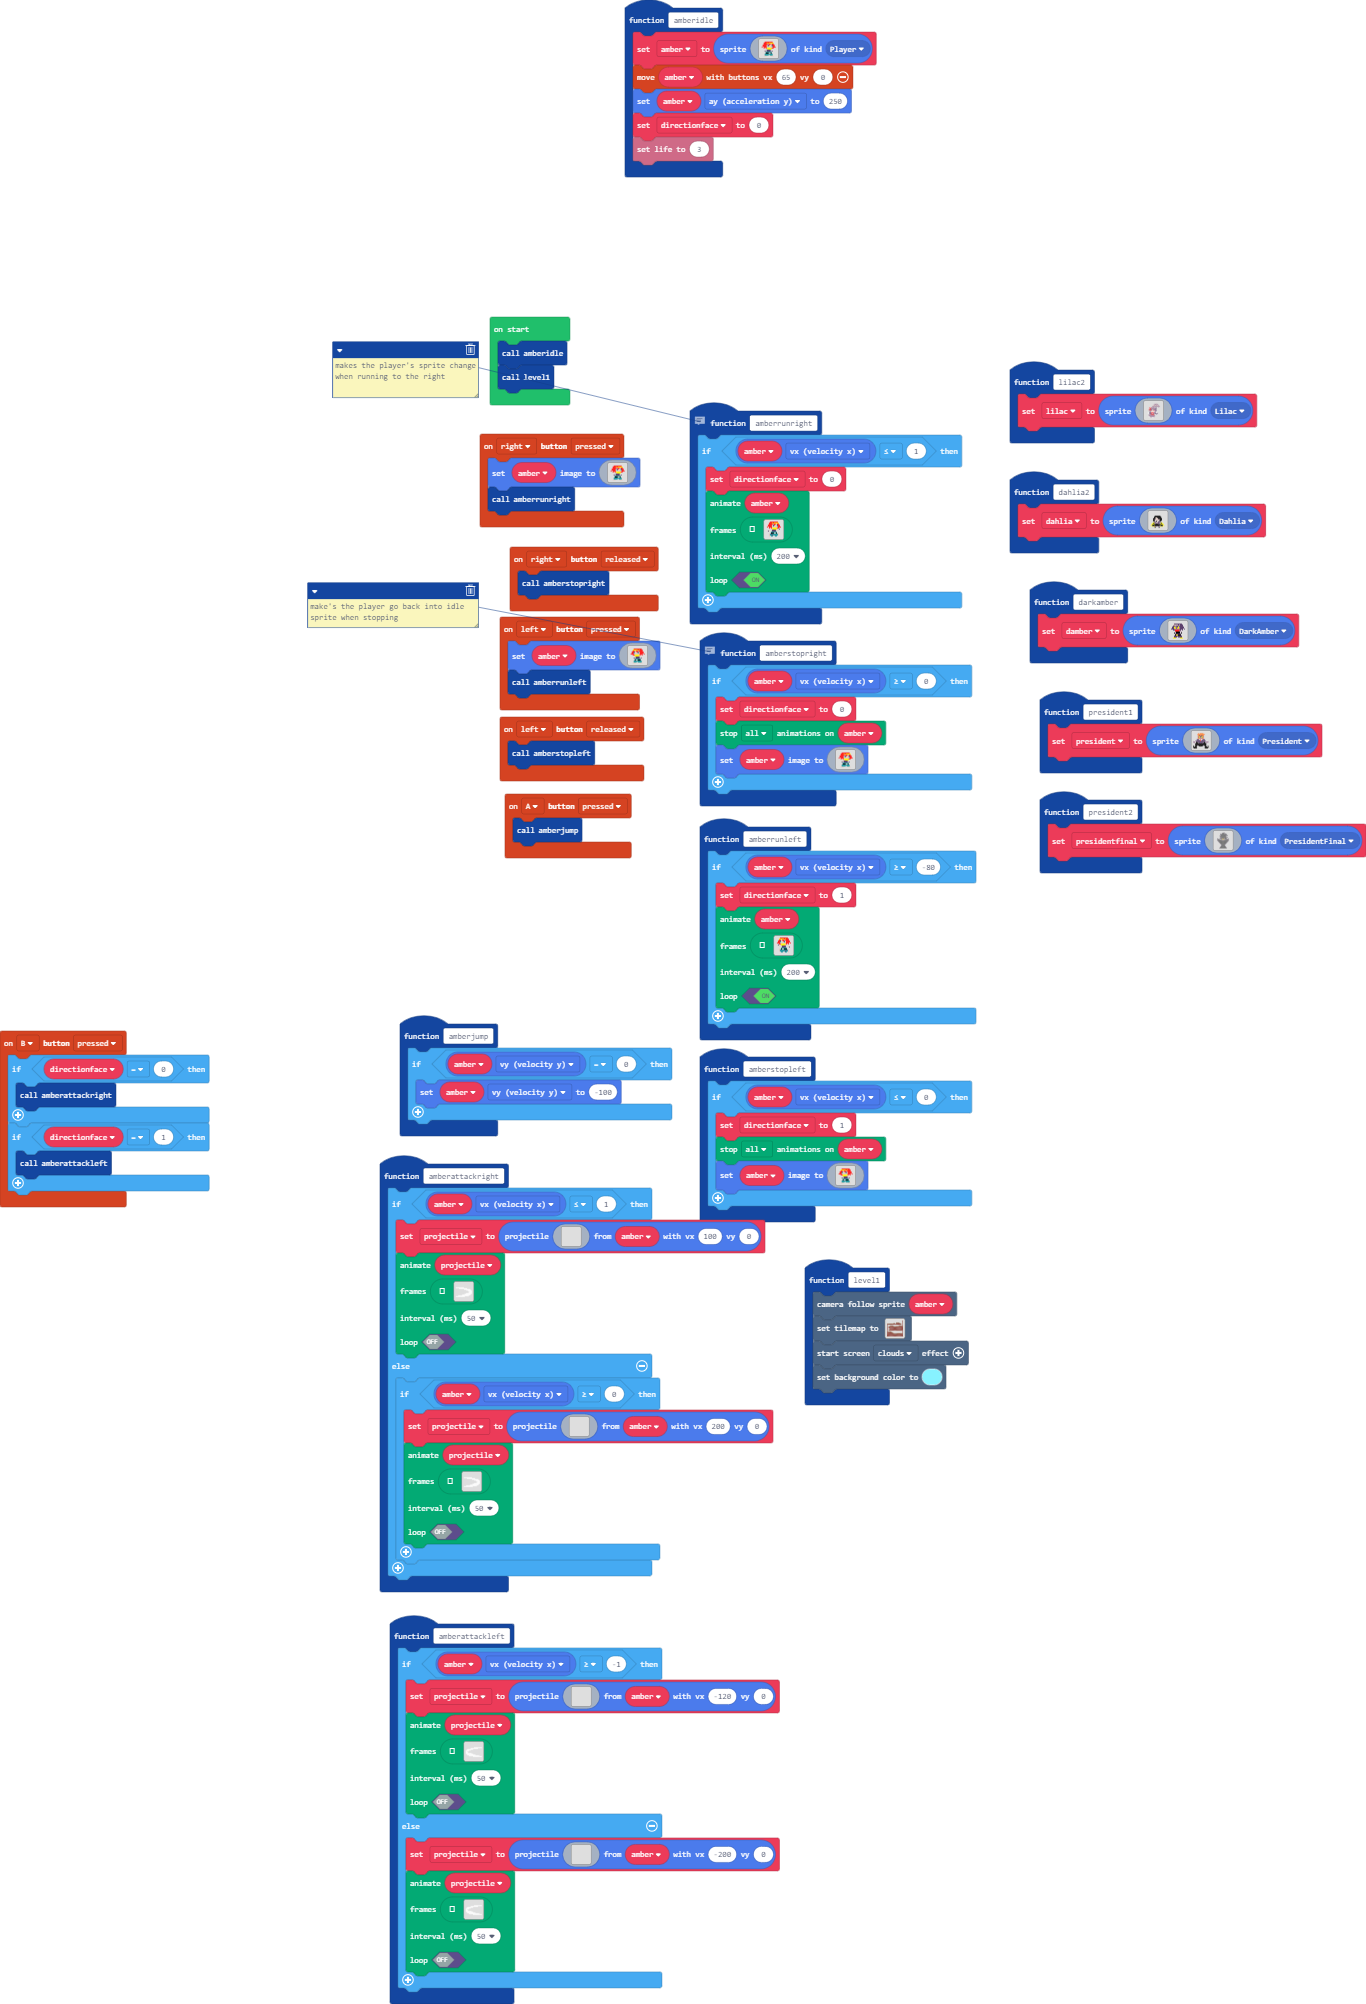
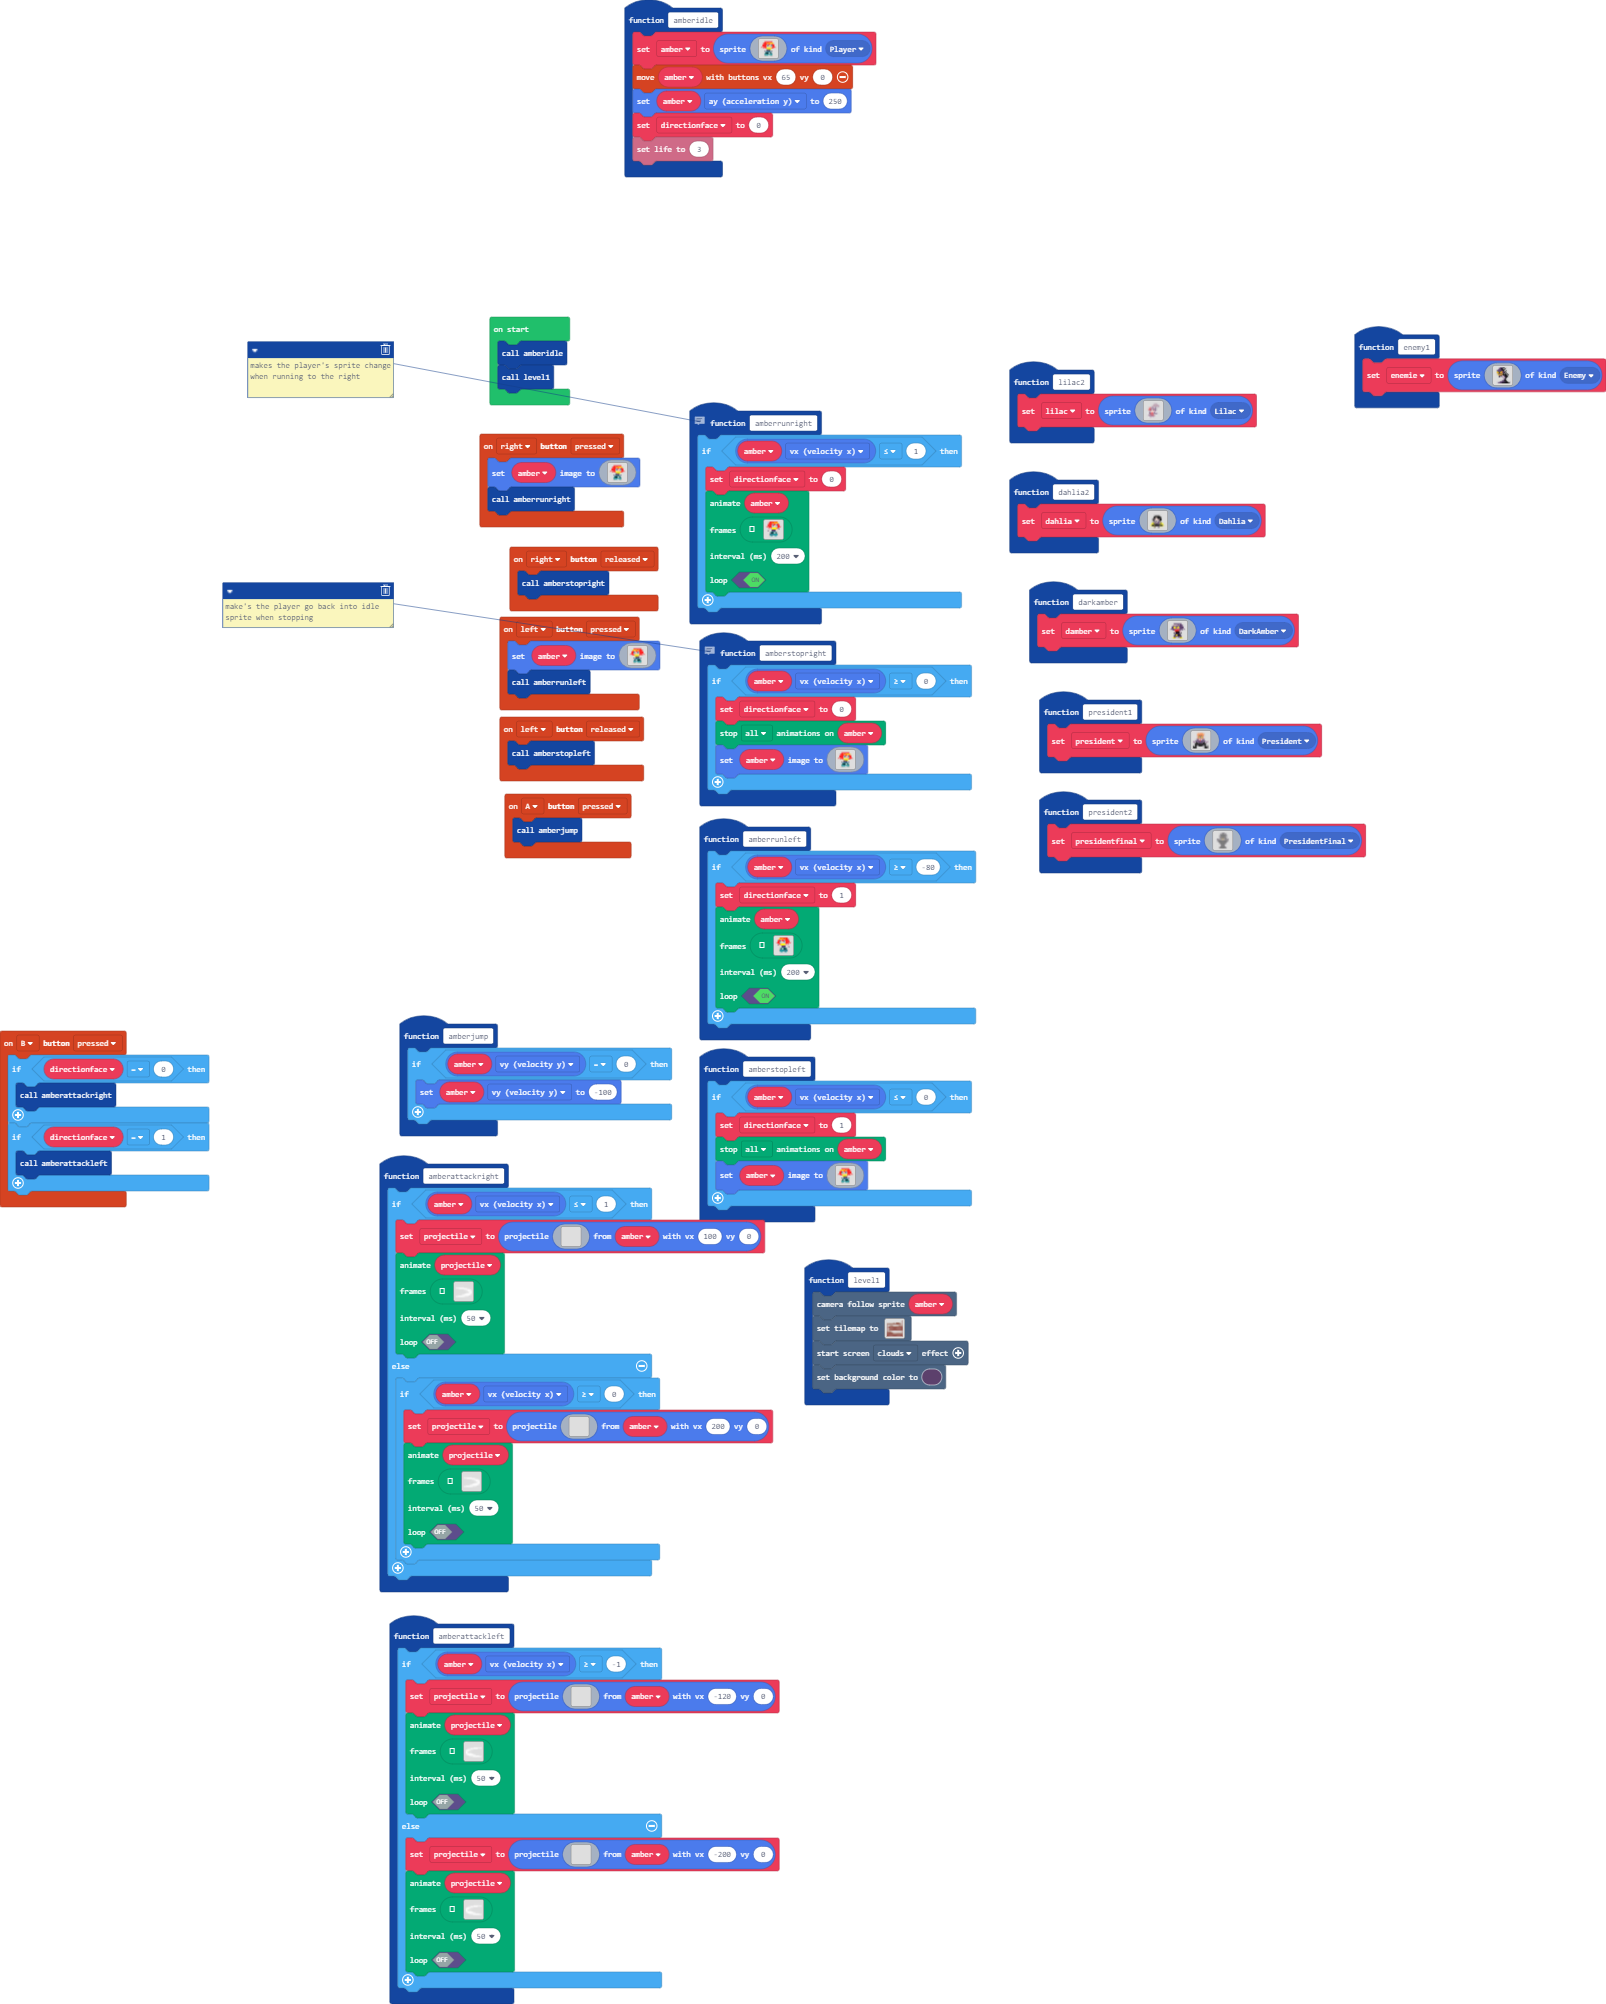
Update main.blocks, main.ts

Changed region(s): [[0.123, 0.1547, 1.0, 1.0], [0.369, 0.0, 0.6457, 0.0928], [0.0, 0.495, 0.1537, 0.6188]]

diff --git a/main.ts b/main.ts
@@ -65,28 +65,48 @@ e e e e e e e e e e e e e e e e
 `
     //% blockIdentity=images._tile
     export const tile4 = img`
-. . . . f . . . . . . . f . . . 
-. . . . f . . . . . . . f . . . 
-. . . 1 f b . . . . . 1 f b . . 
-. . . 1 f b . . . . . 1 f b . . 
-. . . 1 f b . . . . . 1 f b . . 
-. . d 1 f b b . . . d 1 f b b . 
-. . d 1 1 f b . . . d 1 1 f b . 
-. . d d 1 f b . . . d d 1 f b . 
-. d d d 1 f b b . d d d 1 f b b 
-. d d d 1 f f b . d d d 1 f f b 
-. d d d 1 f f b . d d d 1 f f b 
-. d d 1 1 1 f b . d d 1 1 1 f b 
-d d d 1 1 1 f b b d d 1 1 1 f b 
-d d d 1 1 1 f f b d d 1 1 1 f f 
-d d d 1 1 1 f f b d d 1 1 1 f f 
-d d 1 1 1 1 f f f d 1 1 1 1 f f 
+. . . . . . . . . . . . . . . . 
+. . . . . . . . . . . . . . . . 
+. . . . . . . . . . . . . . . . 
+. . . . . . . . . . . . . . . . 
+. . . . . . . . . . . . . . . . 
+. . . . 1 . . . . . . . . 1 . . 
+. . . 1 6 1 . . . . . . 1 6 1 . 
+. 1 1 6 9 6 1 1 . . 1 1 6 9 6 1 
+1 6 6 9 9 9 6 6 1 1 6 6 9 9 9 6 
+6 9 9 9 1 1 9 9 6 6 9 9 1 1 9 9 
+9 9 1 1 6 6 1 1 9 9 1 1 6 6 1 1 
+1 1 6 6 9 9 6 6 1 1 6 6 9 9 6 6 
+6 6 9 9 9 9 9 9 6 6 9 9 9 9 9 9 
+9 9 1 1 9 9 9 9 9 9 1 1 9 9 9 9 
+1 1 6 6 1 1 9 9 1 1 6 6 1 1 9 9 
+6 6 9 9 6 6 1 1 6 6 9 9 6 6 1 1 
 `
+}
+function enemy1 () {
+    enemie = sprites.create(img`
+. . . . . c c c f f . . . . . . 
+. . . . c c f f . . f . . . . . 
+. . . c c c c f f f . . . . . . 
+. . c c c c c c f . . f . . . . 
+. . 5 c c c 5 4 c c f . . . . . 
+. . 4 5 f 5 4 c c f . f . . . . 
+. . . c c c c 5 f . f . f . . . 
+. . . 5 4 5 4 c f f f f . f . . 
+. . . . c c f . b c f f f . . . 
+. . . . f . . b 1 b c f f . . . 
+. . . . . . . . b 1 c f . . . . 
+. . . . . . . . . c f . . . . . 
+. . . . . . . . . c f . . . . . 
+. . . . . . . c c f f f . . . . 
+. . . . . c c c c c c f f . . . 
+. . . c c c c f f f f f f f f . 
+`, SpriteKind.Enemy)
 }
 function level1 () {
     scene.cameraFollowSprite(amber)
     tiles.setTilemap(tiles.createTilemap(
[2 lines of base64/hex data omitted]
             img`
 . . . . . . . . . . . . . . . . . . . . . . . . . . . . . 2 
 . . . . . . . . . . . . . . . . . . . . . . . . . . . . . 2 
@@ -123,7 +143,7 @@ function level1 () {
             TileScale.Sixteen
         ))
     effects.clouds.startScreenEffect()
-    scene.setBackgroundColor(9)
+    scene.setBackgroundColor(12)
 }
 controller.left.onEvent(ControllerButtonEvent.Pressed, function () {
     amber.setImage(img`
@@ -1012,5 +1032,6 @@ let projectile: Sprite = null
 let directionface = 0
 let president: Sprite = null
 let amber: Sprite = null
+let enemie: Sprite = null
 amberidle()
 level1()
